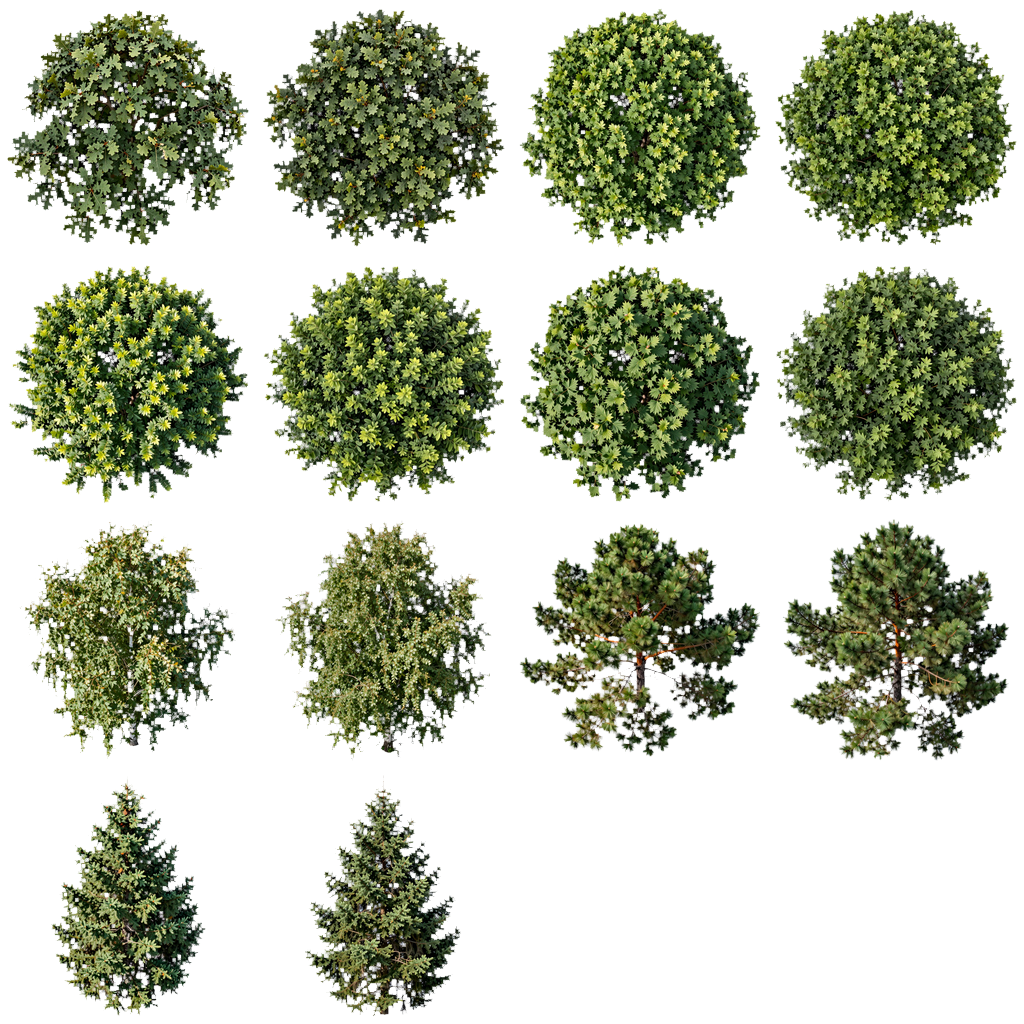
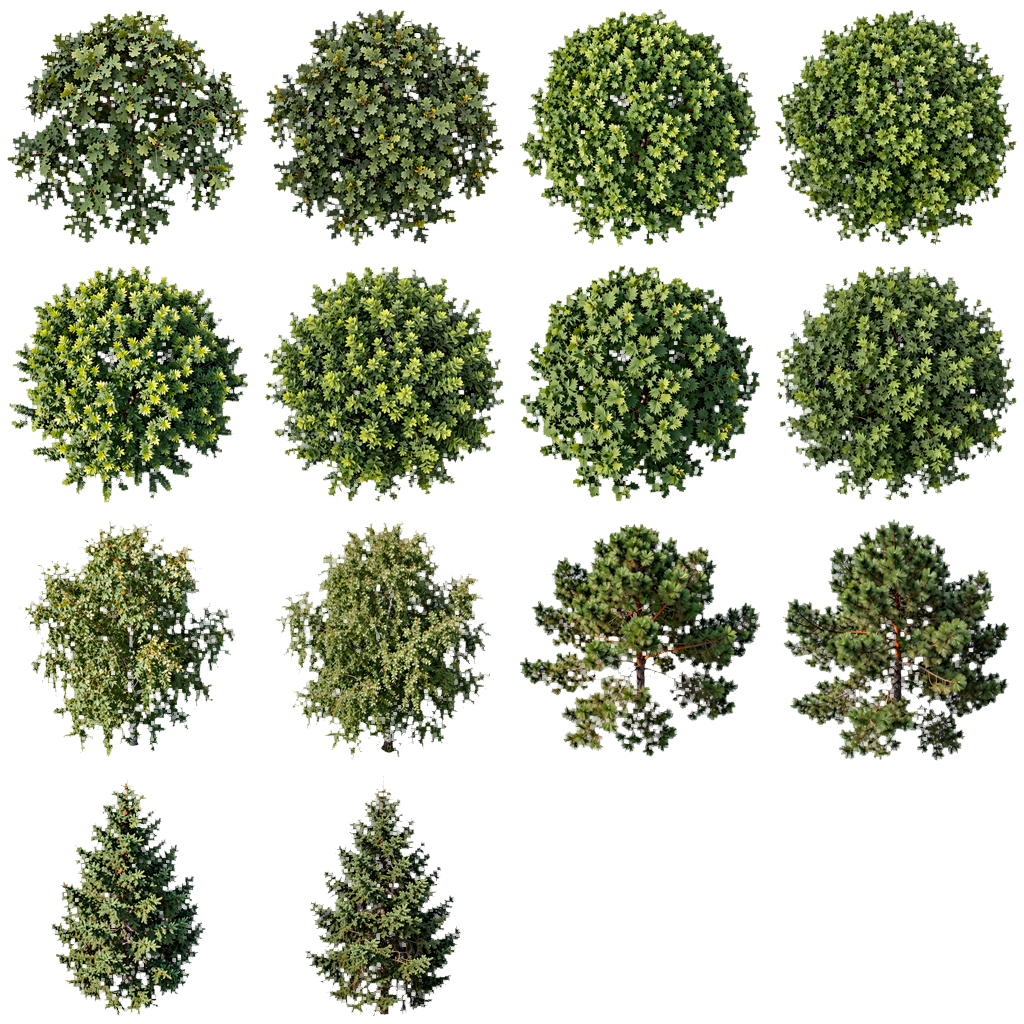
fix(art): the pine crowns' frost — the atlas's soft texels take their crown's colour
The white render ground left a pale grey between a pine's needles; the far
mips raise the alpha (tree_card alpha_far_gain) and drew whole pine woods as
frosted grey clumps. build_tree_atlas.settle_rim gives every texel short of
solid alpha its solid neighbours' colour (alpha kept), in the build and, by
--settle-rim, on the committed atlas.

Changed region(s): [[0.5625, 0.625, 0.6562, 0.75], [0.8438, 0.6562, 0.9062, 0.6875], [0.6562, 0.6562, 0.6875, 0.6875]]

diff --git a/tools/map3d/build_tree_atlas.py b/tools/map3d/build_tree_atlas.py
@@ -82,7 +82,32 @@ def flood(rgba, rounds=24):
     return out
 
 
+def settle_rim(rgba, solid=200, radius=6):
+    """Every texel short of `solid` alpha takes its solid neighbours' colour
+    (a box `radius` px each way, weighted by alpha), keeping its own alpha:
+    the white render ground left a pale grey between a pine's needles that
+    the far mips, raising the alpha, drew as frost (visual review
+    2026-10-06)."""
+    rgb = rgba[..., :3].astype(np.float32)
+    w = np.clip((rgba[..., 3].astype(np.float32) - 128.0) / 127.0, 0, 1)
+
+    def box(a):
+        k = np.ones(2 * radius + 1, np.float32)
+        a = np.apply_along_axis(lambda v: np.convolve(v, k, "same"), 0, a)
+        return np.apply_along_axis(lambda v: np.convolve(v, k, "same"), 1, a)
+    ws = box(w)
+    near = np.dstack([box(rgb[..., c] * w) for c in range(3)]) / np.maximum(ws, 1e-4)[..., None]
+    soft = (rgba[..., 3] < solid) & (ws > 0.5)
+    out = rgba.copy()
+    out[..., :3][soft] = np.clip(near[soft], 0, 255).astype(np.uint8)
+    return out
+
+
 def main():
+    if "--settle-rim" in sys.argv:   # the committed atlas, in place (its sources are not committed)
+        Image.fromarray(settle_rim(np.asarray(Image.open(OUT).convert("RGBA"))), "RGBA").save(OUT)
+        print("settled", OUT)
+        return
     with open(TABLE, newline="") as f:
         rows = list(csv.DictReader(f))
     atlas = np.zeros((ROWS * CELL, COLS * CELL, 4), dtype=np.uint8)
@@ -91,7 +116,7 @@ def main():
         src = os.path.join(ROOT, r["source"])
         if not os.path.exists(src):
             sys.exit("missing source for cell %d: %s" % (cell, src))
-        tile = flood(trim_fit(cut_out(src)))
+        tile = flood(settle_rim(trim_fit(cut_out(src))))
         y, x = (cell // COLS) * CELL, (cell % COLS) * CELL
         atlas[y:y + CELL, x:x + CELL] = tile
         print("cell %2d  kind %s  %s" % (cell, r["kind"], os.path.basename(src)))
